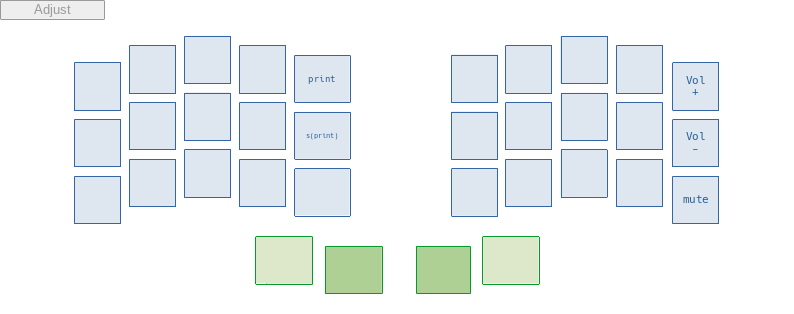
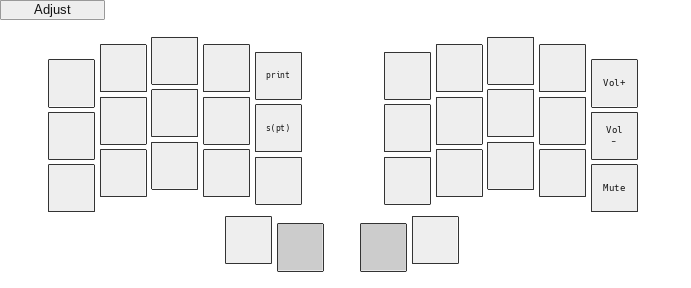
E acute on combo

diff --git a/features/combo.c b/features/combo.c
@@ -18,6 +18,11 @@ enum combos {
     LAYER_FN,
 
     // French
+    E_ACUTE,
+    C_CEDILLA,
+    E_A,
+    E_O,
+
     A_GRAVE,
     E_GRAVE,
     I_GRAVE,
@@ -36,10 +41,6 @@ enum combos {
     O_DIAERESIS,
     U_DIAERESIS,
     Y_DIAERESIS,
-
-    C_CEDILLA,
-    E_A,
-    E_O,
 
     // --
     AMPERSAND,
@@ -85,10 +86,11 @@ enum combos {
     // One hand special
     CONTROL_RIGHT,
     CONTROL_SHIFT_RIGHT,
+
+    DEL_LEFT,
     SHIFT_LEFT,
     ALT_LEFT,
     ALTGR_LEFT,
-    DEL_LEFT,
 
     // --
     COMBO_LENGTH, // Just to replace the define in config.h
@@ -114,17 +116,22 @@ const uint16_t PROGMEM combo_right_alt[] =              {KC_LAPO, KC_G, COMBO_EN
 const uint16_t PROGMEM combo_alt_shift[] =              {KC_LALT, KC_S, COMBO_END};
 
 // --
-const uint16_t PROGMEM combo_a_grave[] =                {KC_LCPO, KC_A, COMBO_END};
-const uint16_t PROGMEM combo_e_grave[] =                {KC_LCPO, KC_E, COMBO_END};
-const uint16_t PROGMEM combo_i_grave[] =                {KC_LCPO, KC_I, COMBO_END};
-const uint16_t PROGMEM combo_o_grave[] =                {KC_LCPO, KC_O, COMBO_END};
-const uint16_t PROGMEM combo_u_grave[] =                {KC_LCPO, KC_U, COMBO_END};
+const uint16_t PROGMEM combo_e_acute[] =                {KC_LCPO, KC_E, COMBO_END};
+const uint16_t PROGMEM combo_c_cedilla[] =              {KC_LCPO, KC_I, COMBO_END};
+const uint16_t PROGMEM combo_ea[] =                     {KC_LCPO, KC_A, COMBO_END};
+const uint16_t PROGMEM combo_eo[] =                     {KC_LCPO, KC_O, COMBO_END};
 
-const uint16_t PROGMEM combo_a_circumflex[] =           {LT(_MOUSE, KC_COMM), KC_A, COMBO_END};
-const uint16_t PROGMEM combo_e_circumflex[] =           {LT(_MOUSE, KC_COMM), KC_E, COMBO_END};
-const uint16_t PROGMEM combo_i_circumflex[] =           {LT(_MOUSE, KC_COMM), KC_I, COMBO_END};
-const uint16_t PROGMEM combo_o_circumflex[] =           {LT(_MOUSE, KC_COMM), KC_O, COMBO_END};
-const uint16_t PROGMEM combo_u_circumflex[] =           {LT(_MOUSE, KC_COMM), KC_U, COMBO_END};
+const uint16_t PROGMEM combo_a_grave[] =                {LT(_MOUSE, KC_COMM), KC_A, COMBO_END};
+const uint16_t PROGMEM combo_e_grave[] =                {LT(_MOUSE, KC_COMM), KC_E, COMBO_END};
+const uint16_t PROGMEM combo_i_grave[] =                {LT(_MOUSE, KC_COMM), KC_I, COMBO_END};
+const uint16_t PROGMEM combo_o_grave[] =                {LT(_MOUSE, KC_COMM), KC_O, COMBO_END};
+const uint16_t PROGMEM combo_u_grave[] =                {LT(_MOUSE, KC_COMM), KC_U, COMBO_END};
+
+const uint16_t PROGMEM combo_a_circumflex[] =           {LT(_NUMERIC, KC_ENT), KC_A, COMBO_END};
+const uint16_t PROGMEM combo_e_circumflex[] =           {LT(_NUMERIC, KC_ENT), KC_E, COMBO_END};
+const uint16_t PROGMEM combo_i_circumflex[] =           {LT(_NUMERIC, KC_ENT), KC_I, COMBO_END};
+const uint16_t PROGMEM combo_o_circumflex[] =           {LT(_NUMERIC, KC_ENT), KC_O, COMBO_END};
+const uint16_t PROGMEM combo_u_circumflex[] =           {LT(_NUMERIC, KC_ENT), KC_U, COMBO_END};
 
 const uint16_t PROGMEM combo_a_diaeresis[] =            {LT(_ARROWS, KC_DOT), KC_A, COMBO_END};
 const uint16_t PROGMEM combo_e_diaeresis[] =            {LT(_ARROWS, KC_DOT), KC_E, COMBO_END};
@@ -132,10 +139,6 @@ const uint16_t PROGMEM combo_i_diaeresis[] =            {LT(_ARROWS, KC_DOT), KC
 const uint16_t PROGMEM combo_o_diaeresis[] =            {LT(_ARROWS, KC_DOT), KC_O, COMBO_END};
 const uint16_t PROGMEM combo_u_diaeresis[] =            {LT(_ARROWS, KC_DOT), KC_U, COMBO_END};
 const uint16_t PROGMEM combo_y_diaeresis[] =            {LT(_ARROWS, KC_DOT), KC_Y, COMBO_END};
-
-const uint16_t PROGMEM combo_c_cedilla[] =              {CS_E_ACUTE, KC_I, COMBO_END};
-const uint16_t PROGMEM combo_ea[] =                     {CS_E_ACUTE, KC_A, COMBO_END};
-const uint16_t PROGMEM combo_eo[] =                     {CS_E_ACUTE, KC_O, COMBO_END};
 
 // --
 const uint16_t PROGMEM combo_ampersand[] =              {KC_I, KC_E, COMBO_END};
@@ -164,8 +167,8 @@ const uint16_t PROGMEM combo_underscore[] =             {KC_S, KC_R, COMBO_END};
 const uint16_t PROGMEM combo_angle_bracket_left[] =     {KC_C, KC_S, COMBO_END};
 const uint16_t PROGMEM combo_angle_bracket_right[] =    {KC_S, KC_H, COMBO_END};
 
-const uint16_t PROGMEM combo_bracket_left[] =           {KC_B, KC_U, COMBO_END};
-const uint16_t PROGMEM combo_bracket_right[] =          {KC_I, KC_W, COMBO_END};
+const uint16_t PROGMEM combo_bracket_left[] =           {KC_Y, KC_U, COMBO_END};
+const uint16_t PROGMEM combo_bracket_right[] =          {KC_E, KC_W, COMBO_END};
 const uint16_t PROGMEM combo_curly_bracket_left[] =     {KC_B, KC_E, COMBO_END};
 const uint16_t PROGMEM combo_curly_bracket_right[] =    {KC_I, KC_Y, COMBO_END};
 const uint16_t PROGMEM combo_parenthesis_left[] =       {KC_B, KC_U, COMBO_END};
@@ -174,10 +177,10 @@ const uint16_t PROGMEM combo_parenthesis_right[] =      {KC_I, KC_W, COMBO_END};
 // One hand special
 const uint16_t PROGMEM combo_control_right[] =          {LT(_NUMERIC, KC_ENT), KC_R, COMBO_END};
 const uint16_t PROGMEM combo_control_shift_right[] =    {LT(_NUMERIC, KC_ENT), KC_S, COMBO_END};
-const uint16_t PROGMEM combo_shift_left[] =             {KC_TAB, GUI_T(KC_ESC), COMBO_END};
-const uint16_t PROGMEM combo_alt_left[] =               {KC_Z, GUI_T(KC_ESC), COMBO_END};
-const uint16_t PROGMEM combo_altgr_left[] =             {KC_K, GUI_T(KC_ESC), COMBO_END};
-const uint16_t PROGMEM combo_del_left[] =               {CS_E_ACUTE, KC_K, COMBO_END};
+
+const uint16_t PROGMEM combo_shift_left[] =             {KC_LCPO, KC_LALT, COMBO_END};
+const uint16_t PROGMEM combo_altgr_left[] =             {LT(_MOUSE, KC_COMM), KC_LALT, COMBO_END};
+const uint16_t PROGMEM combo_del_left[] =               {GUI_T(KC_ESC), KC_K, COMBO_END};
 
 
 // --------------------------------------------------
@@ -192,13 +195,18 @@ combo_t key_combos[] = {
 
     // --
     // [ENTER_SHIFTED] = COMBO(combo_enter_shifted,            S(KC_ENT)),
+    [ALT_SHIFT] = COMBO(combo_alt_shift,                    A(S(XXXXXXX))),
     [CONTROL_SHIFT] = COMBO(combo_control_shift,            C(S(XXXXXXX))),
     [CONTROL_ALT] = COMBO(combo_control_alt,                C(A(XXXXXXX))),
     [CONTROL_SHIFT_ALT] = COMBO(combo_control_shift_alt,    C(S(A(XXXXXXX)))),
     [RIGHT_ALT] = COMBO(combo_right_alt,                    KC_RALT),
-    [ALT_SHIFT] = COMBO(combo_alt_shift,                    A(S(XXXXXXX))),
 
     // French
+    [E_ACUTE] = COMBO(combo_e_acute,                        CS_E_ACUTE),
+    [C_CEDILLA] = COMBO(combo_c_cedilla,                    CS_C_CEDILLA),
+    [E_A] = COMBO(combo_ea,                                 CS_AE),
+    [E_O] = COMBO(combo_eo,                                 CS_OE),
+
     [A_GRAVE] = COMBO(combo_a_grave,                        CS_A_GRAVE),
     [E_GRAVE] = COMBO(combo_e_grave,                        CS_E_GRAVE),
     [I_GRAVE] = COMBO(combo_i_grave,                        CS_I_GRAVE),
@@ -217,10 +225,6 @@ combo_t key_combos[] = {
     [O_DIAERESIS] = COMBO(combo_o_diaeresis,                CS_O_DIAERESIS),
     [U_DIAERESIS] = COMBO(combo_u_diaeresis,                CS_U_DIAERESIS),
     [Y_DIAERESIS] = COMBO(combo_y_diaeresis,                CS_Y_DIAERESIS),
-
-    [C_CEDILLA] = COMBO(combo_c_cedilla,                    CS_C_CEDILLA),
-    [E_A] = COMBO(combo_ea,                                 CS_AE),
-    [E_O] = COMBO(combo_eo,                                 CS_OE),
 
     // --
     [AMPERSAND] = COMBO(combo_ampersand,                    KC_AMPR),
@@ -259,8 +263,8 @@ combo_t key_combos[] = {
     // One hand special
     [CONTROL_RIGHT] = COMBO(combo_control_right,                KC_RCTL),
     [CONTROL_SHIFT_RIGHT] = COMBO(combo_control_shift_right,    C(S(XXXXXXX))),
+
     [SHIFT_LEFT] = COMBO(combo_shift_left,                      KC_LSFT),
-    [ALT_LEFT] = COMBO(combo_alt_left,                          KC_LALT),
     [ALTGR_LEFT] = COMBO(combo_altgr_left,                      KC_ALGR),
     [DEL_LEFT] = COMBO(combo_del_left,                          KC_BSPC),
 };

diff --git a/keymap.c b/keymap.c
@@ -112,25 +112,12 @@ const uint16_t PROGMEM keymaps[][MATRIX_ROWS][MATRIX_COLS] = {
   //|---------------+---------------+---------------+---------------+---------------|       |---------------+---------------+---------------+---------------+---------------|
           KC_A      ,     KC_I      ,     KC_E      ,     KC_U      ,     KC_TAB    ,             KC_V      ,      KC_T     ,      KC_S     ,      KC_R     ,      KC_N     ,
   //|---------------+---------------+---------------+---------------+---------------|       |---------------+---------------+---------------+---------------+---------------|
-        CS_E_ACUTE  ,     KC_B      ,     KC_Y      ,     KC_W      ,      KC_Z     ,             KC_Q      ,      KC_C     ,      KC_G     ,      KC_H     ,      KC_M     ,
+         KC_LALT    ,     KC_B      ,     KC_Y      ,     KC_W      ,      KC_Z     ,             KC_Q      ,      KC_C     ,      KC_G     ,      KC_H     ,      KC_M     ,
   //|---------------+---------------+---------------+---------------+---------------|       |---------------+---------------+---------------+---------------+---------------|
   //                               |-------------------------+-------------------------| |-------------------------+-------------------------|
                                         LT(_MOUSE, KC_COMM)  ,        KC_LCPO          ,    LT(_NUMERIC, KC_ENT)   ,  LT(_ARROWS, KC_DOT)
   //                               |-------------------------+----/* Space ctl */------| |-------------------------+-------------------------|
   ),
-
-  // [_POUET] = LAYOUT(
-  // //|---------------+---------------+---------------+---------------+---------------|       |---------------+---------------+---------------+---------------+---------------|
-       // CS_E_ACUTE   ,     KC_F      ,     KC_O      ,     KC_U      ,      KC_K     ,             KC_J      ,      KC_P     ,      KC_D     ,      KC_L     ,     KC_BSPC   ,
-  // //|---------------+---------------+---------------+---------------+---------------|       |---------------+---------------+---------------+---------------+---------------|
-      // GUI_T(KC_ESC) ,     KC_A      ,     KC_E      ,     KC_I      ,     KC_TAB    ,             KC_V      ,      KC_T     ,      KC_S     ,      KC_R     ,      KC_N     ,
-  // //|---------------+---------------+---------------+---------------+---------------|       |---------------+---------------+---------------+---------------+---------------|
-          // KC_B      ,     KC_Y      ,     KC_W      ,     KC_X      ,      KC_Z     ,             KC_Q      ,      KC_C     ,      KC_G     ,      KC_H     ,      KC_M     ,
-  // //|---------------+---------------+---------------+---------------+---------------|       |---------------+---------------+---------------+---------------+---------------|
-  // //                               |-------------------------+-------------------------| |-------------------------+-------------------------|
-                                        // LT(_MOUSE, KC_COMM)  ,        KC_LCPO          ,    LT(_NUMERIC, KC_ENT)   ,  LT(_ARROWS, KC_DOT)
-  // //                               |-------------------------+----/* Space ctl */------| |-------------------------+-------------------------|
-  // ),
 
   [_NUMERIC] = LAYOUT(
   //|---------------+---------------+---------------+---------------+---------------|       |---------------+---------------+---------------+---------------+---------------|

diff --git a/README.md b/README.md
@@ -122,7 +122,6 @@ Use the standard us keymap :
 ![mouse](https://raw.githubusercontent.com/FLinguenheld/sweep_keymap/main/images/mouse.png "layout")  
 ![arrows](https://raw.githubusercontent.com/FLinguenheld/sweep_keymap/main/images/arrows.png "layout")  
 ![adjust](https://raw.githubusercontent.com/FLinguenheld/sweep_keymap/main/images/adjust.png "layout")  
-![fn](https://raw.githubusercontent.com/FLinguenheld/sweep_keymap/main/images/fn.png "layout")
-![combo](https://raw.githubusercontent.com/FLinguenheld/sweep_keymap/main/images/combos.png "layout")
-![combo2](https://raw.githubusercontent.com/FLinguenheld/sweep_keymap/main/images/combos2.png "layout")
-
+![fn](https://raw.githubusercontent.com/FLinguenheld/sweep_keymap/main/images/fn.png "layout")  
+![combo](https://raw.githubusercontent.com/FLinguenheld/sweep_keymap/main/images/combos.png "layout")  
+![combo2](https://raw.githubusercontent.com/FLinguenheld/sweep_keymap/main/images/combos2.png "layout")  
